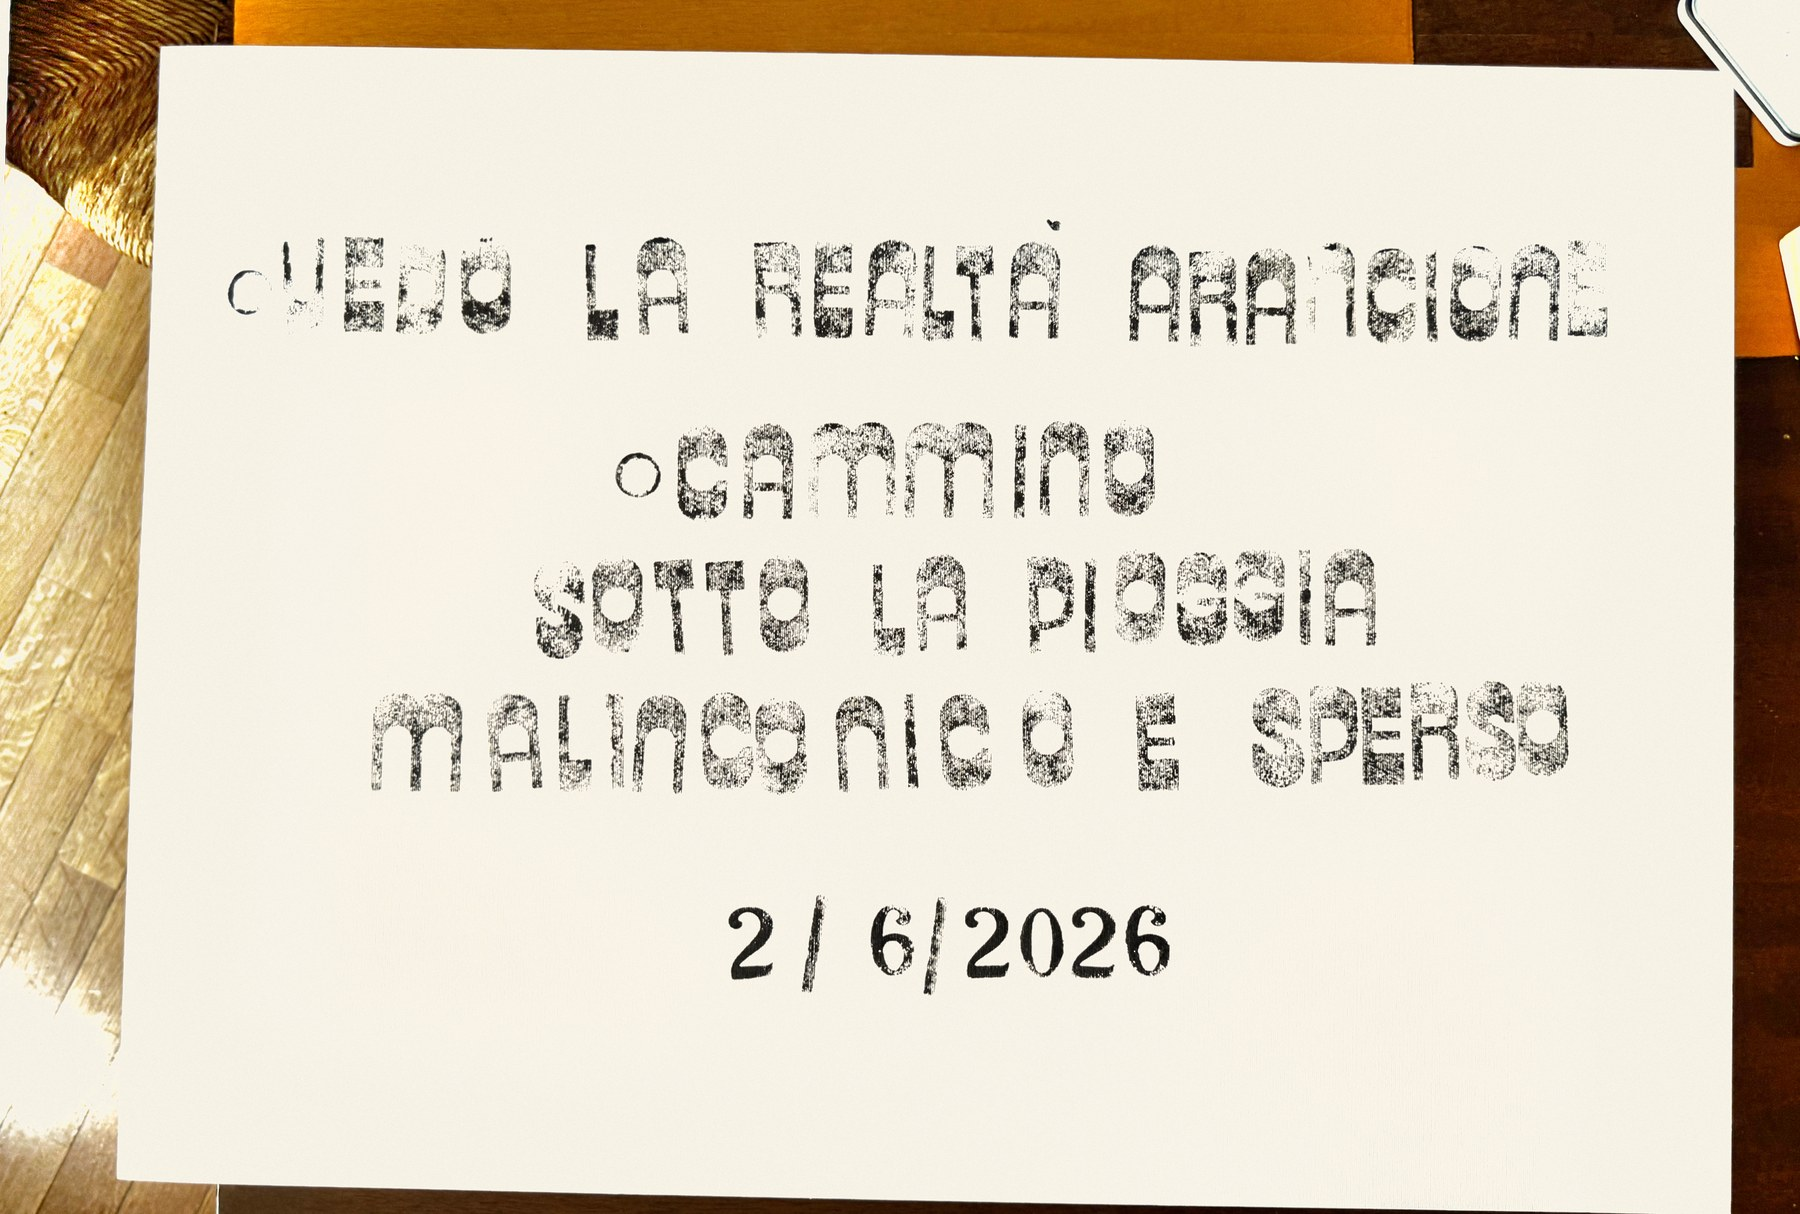
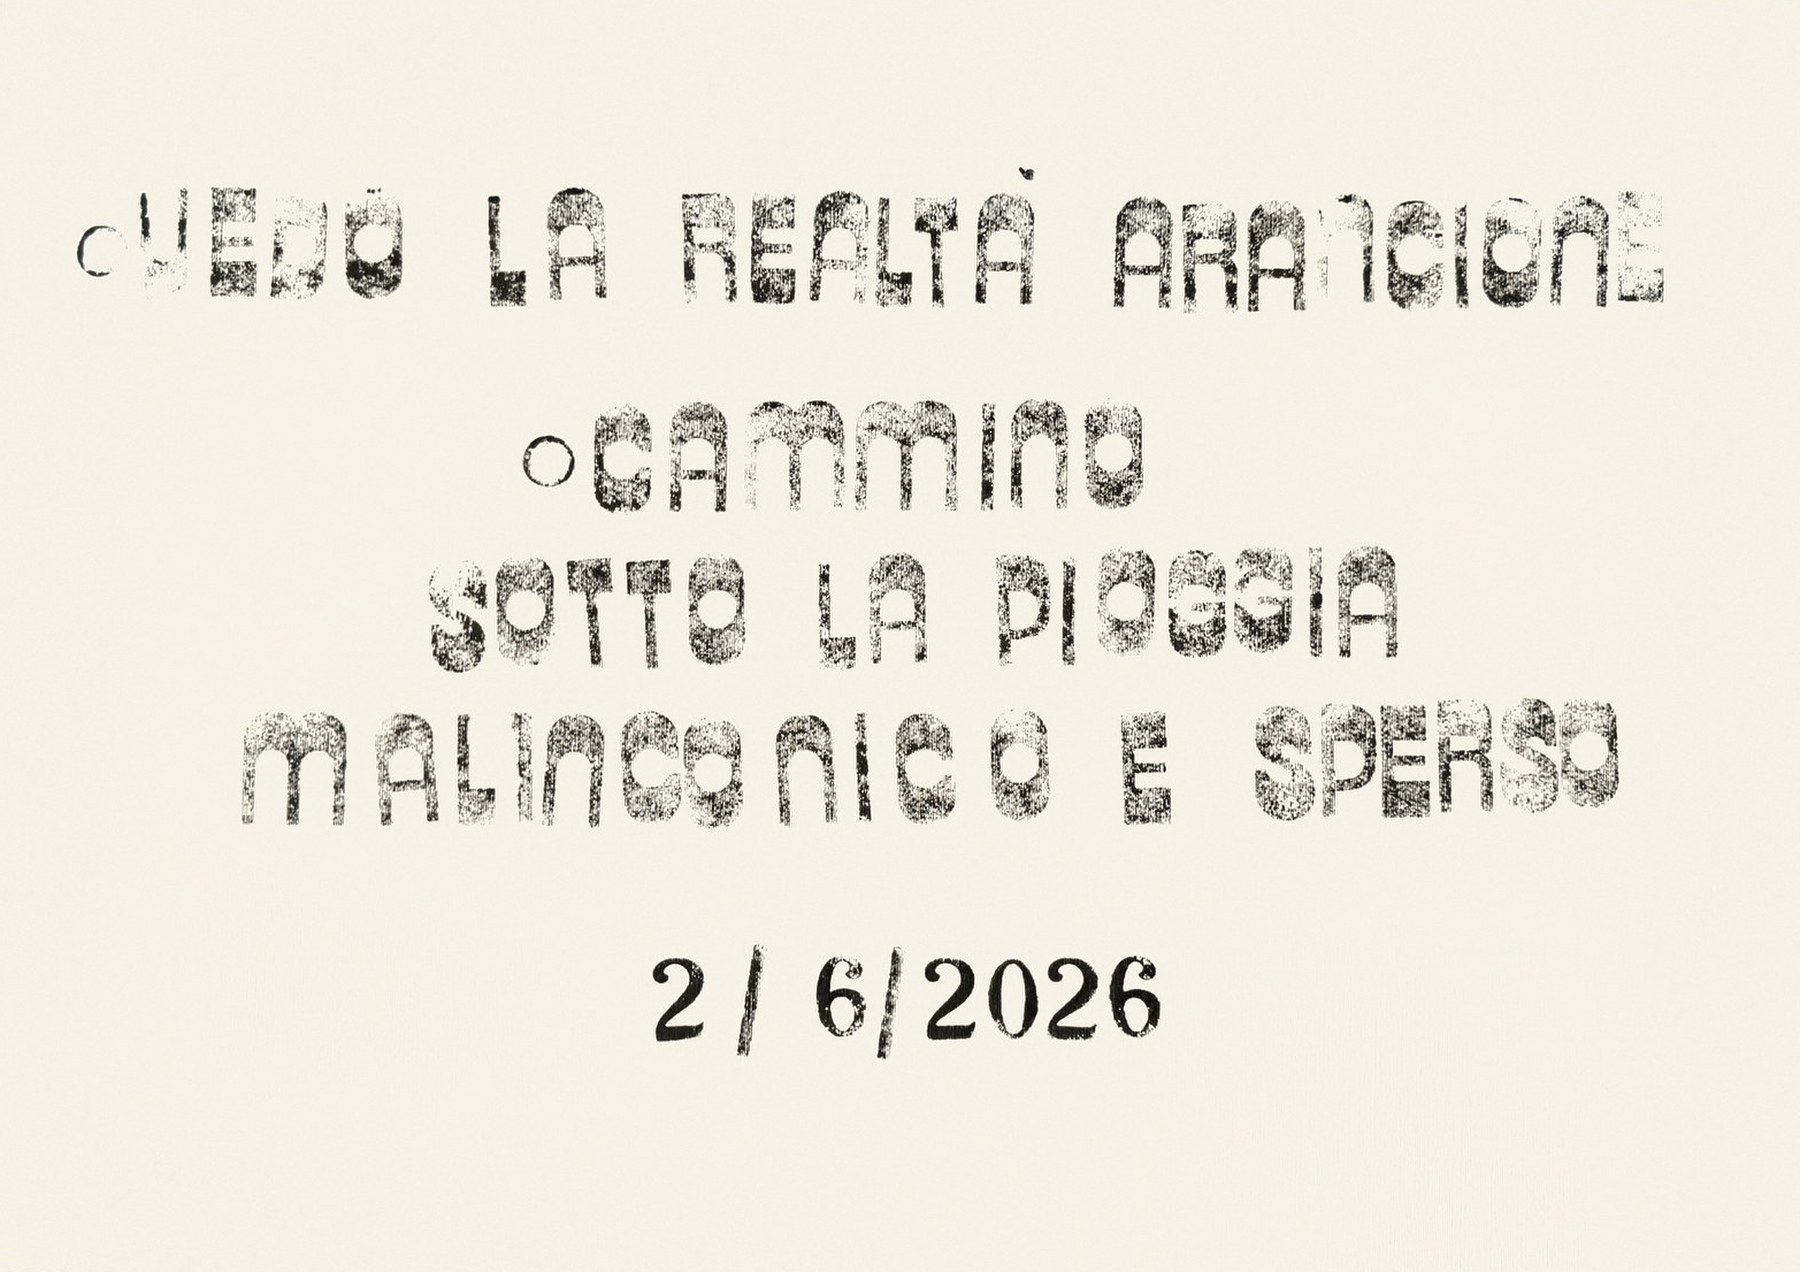
refine: 2/6 crop bordi residui (foglio senza margini tavolo)

diff --git a/index.html b/index.html
@@ -662,11 +662,11 @@ section#timbri{ padding-top: clamp(160px, 18vw, 240px); }
 <section class="page" id="timbri">
   <div class="gallery" id="gallery">
     <figure class="work">
-      <div class="work-frame" style="--ratio: 67.44%;">
+      <div class="work-frame" style="--ratio: 70.67%;">
         <img src="foto_definitive/Timbro_2026-06-02.jpg"
              srcset="foto_definitive/thumbs/Timbro_2026-06-02.jpg 800w, foto_definitive/Timbro_2026-06-02.jpg 1800w"
              sizes="(max-width: 720px) 92vw, 720px"
-             width="1800" height="1214"
+             width="1800" height="1272"
              alt="2/6/26" loading="lazy" decoding="async" />
       </div>
       <figcaption class="work-caption"><span class="work-date">2/6/26</span></figcaption>
